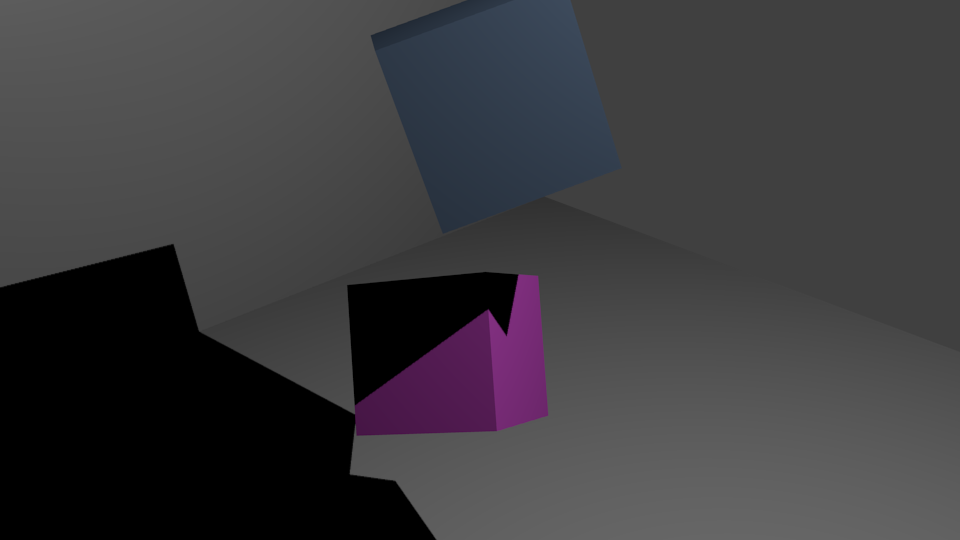
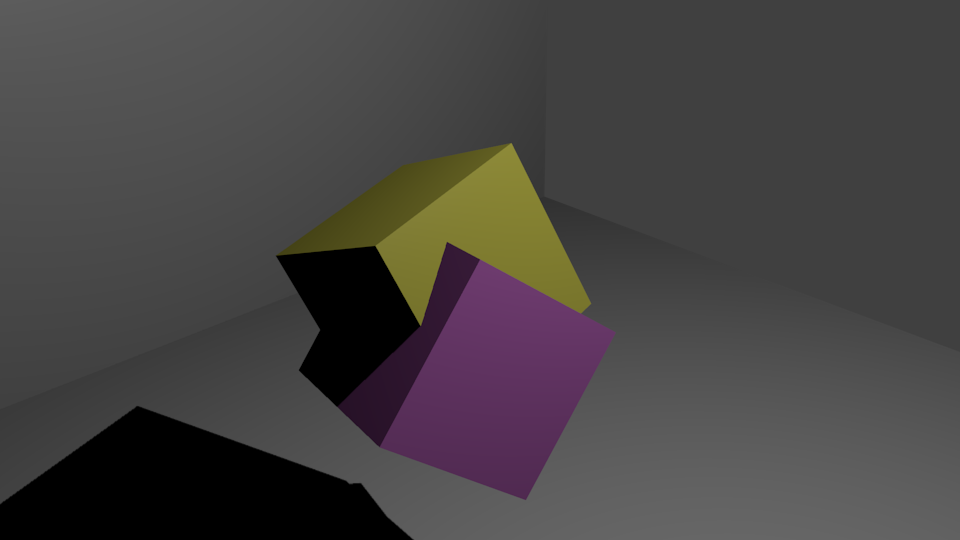
adding light sources

Changed region(s): [[0.0, 0.0, 0.6562, 1.0], [0.5625, 0.0, 0.625, 0.0593]]

diff --git a/pby_fun.py b/pby_fun.py
@@ -163,6 +163,10 @@ def clean_up_scene():
     for texture in bpy.data.textures:
         texture.user_clear();
         bpy.data.textures.remove(texture);
+    
+    for lamp in bpy.data.lamps:
+        lamp.user_clear();
+        bpy.data.lamps.remove(lamp);
 
     # clear default nodes
     bpy.context.scene.use_nodes = True
@@ -183,6 +187,53 @@ def clean_up_scene():
          
     return tree, links
 
+def set_up_lighting(scene):
+    #setup lighting:               
+    # create a new lamp
+    lamp_data = bpy.data.lamps.new(name="Lamp", type='POINT')
+    
+    # Create new object with our lamp datablock
+    lamp_object = bpy.data.objects.new(name="New Lamp", object_data=lamp_data)
+
+    # Link lamp object to the scene so it'll appear in this scene
+    scene.objects.link(lamp_object)
+
+    # Place lamp to a specified location
+    lamp_object.location = (5.0, 5.0, 5.0)
+
+    # And finally select it make active
+    lamp_object.select = True
+    scene.objects.active = lamp_object
+
+    light = bpy.data.objects['Lamp']
+    light.data.use_shadow = False   
+    light.data.energy = 5.0         
+    light.location = (8,8,8)        
+    light.select = False            
+
+     # create a new lamp
+    lamp_data = bpy.data.lamps.new(name="Lamp.001", type='POINT')
+    
+    # Create new object with our lamp datablock
+    lamp_object = bpy.data.objects.new(name="New Lamp", object_data=lamp_data)
+
+    # Link lamp object to the scene so it'll appear in this scene
+    scene.objects.link(lamp_object)
+
+    # Place lamp to a specified location
+    lamp_object.location = (5.0, 5.0, 5.0)
+
+    # And finally select it make active
+    lamp_object.select = True
+    scene.objects.active = lamp_object
+
+    light2 = bpy.data.objects['Lamp.001']
+    light2.data.use_shadow = False   
+    light2.data.energy = 5.0         
+    light2.location = (8,-8,8)        
+    light2.select = False  
+    
+    
 def render_scene( links, scene, rl, composite, ID):
                                                                            
     #output the stereoscopic images:                                   
@@ -211,6 +262,7 @@ def makeascene():
     create_random_cube([], 2, size=[0.7,1.0])
     create_random_cube("001",5,size=[ 0.7, 1.0])
     render_scene( links, scene, rl, composite,1)
+    set_up_lighting(2)
 #    create_background()
 
 makeascene()
